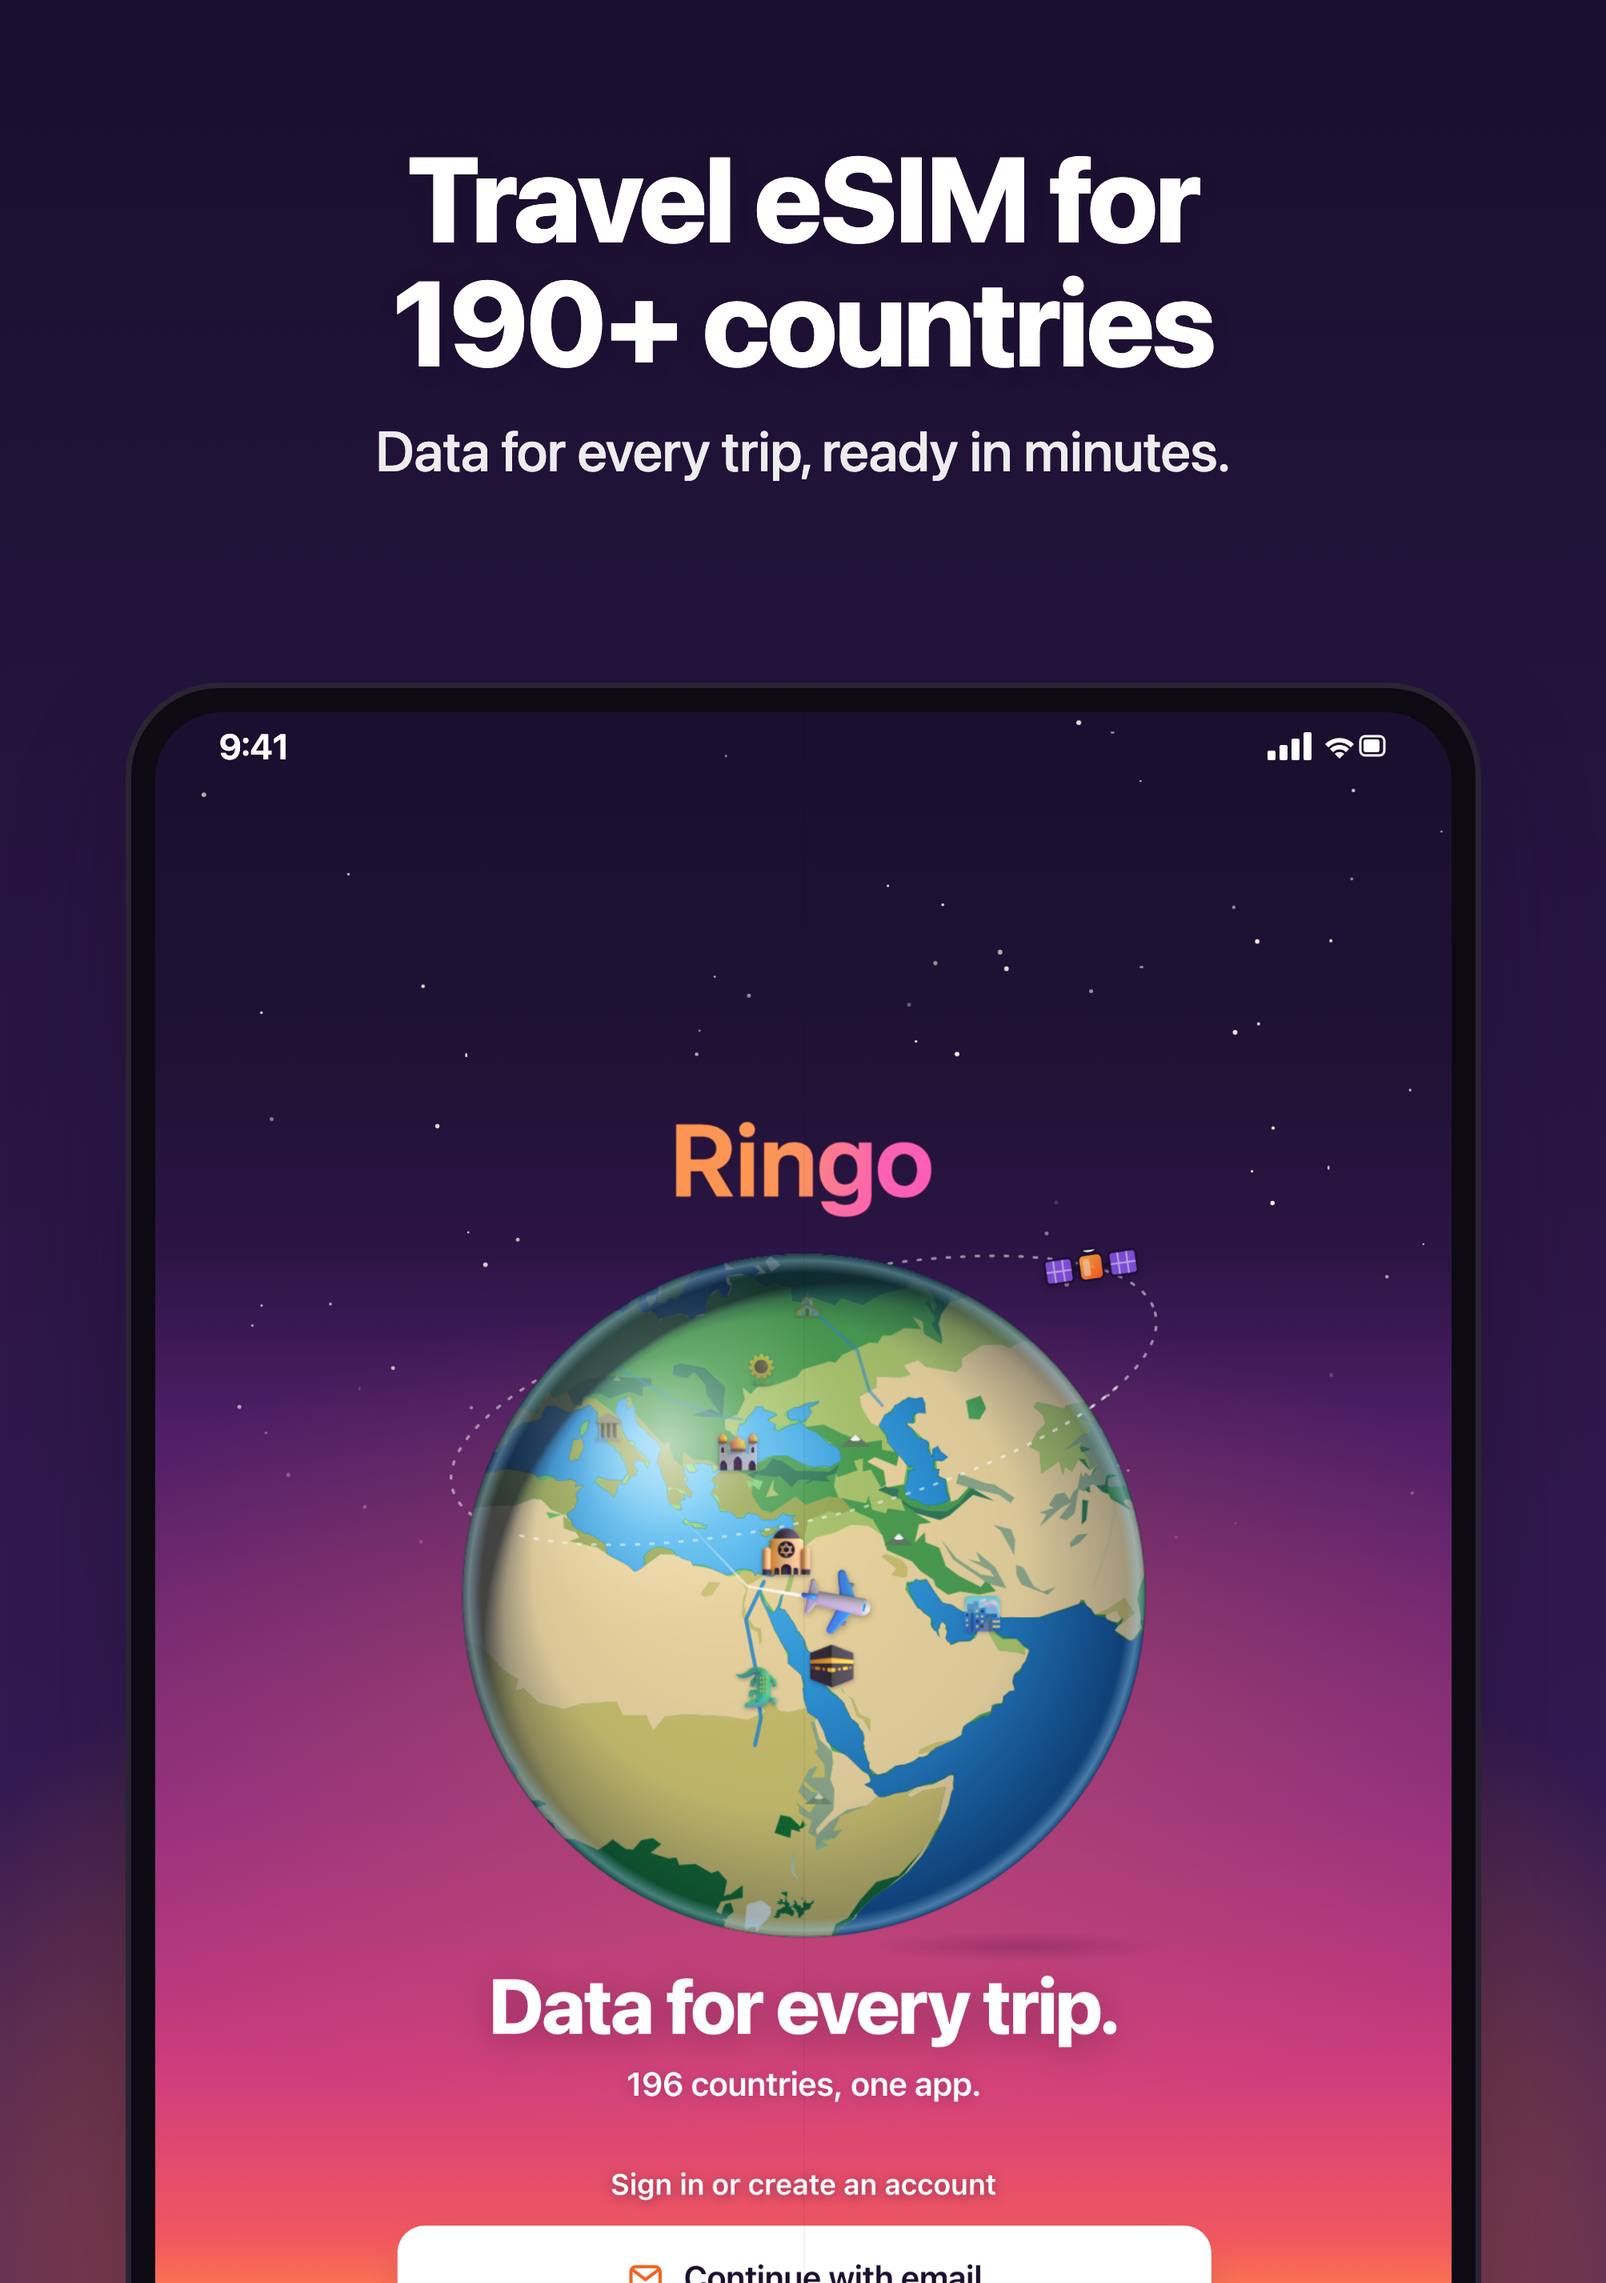
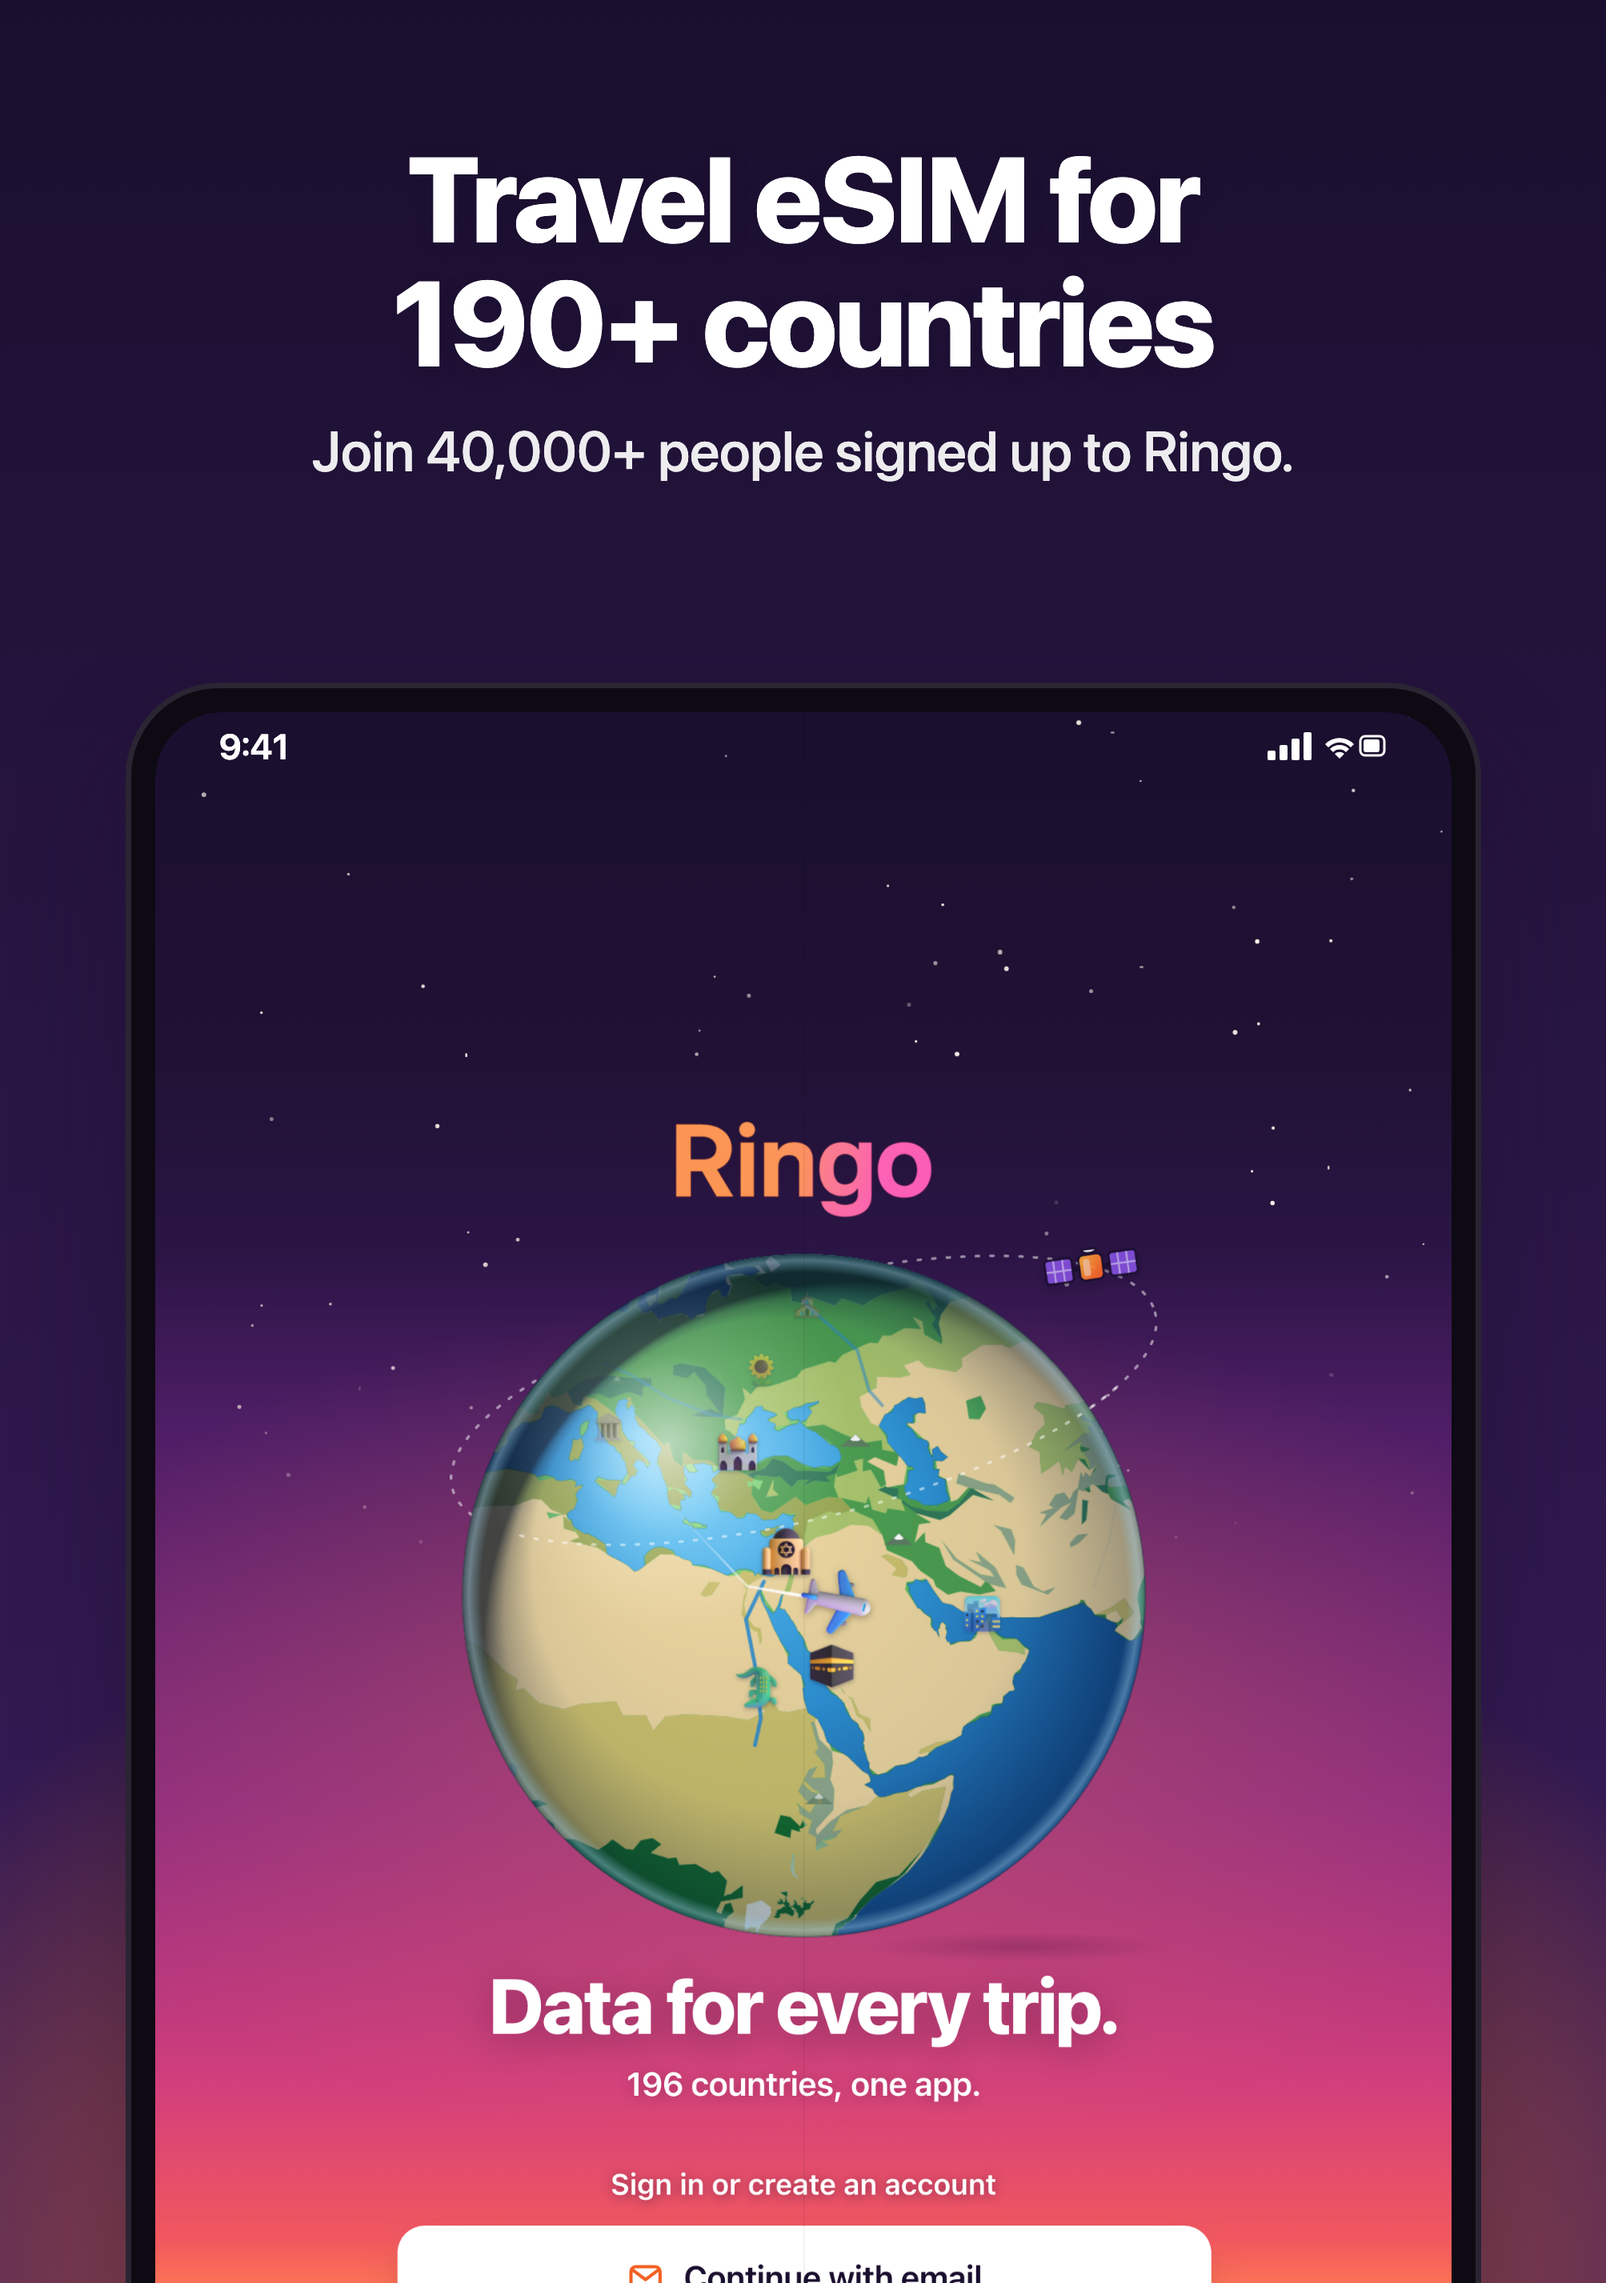
App Store first slide (6.9" and iPhone Duo): Join 40,000+ people signed up to Ringo

Changed region(s): [[0.1854, 0.1872, 0.8032, 0.2184]]

diff --git a/appstore/screenshots-1.03-marketing/src/build.py b/appstore/screenshots-1.03-marketing/src/build.py
@@ -21,7 +21,7 @@ SUN = 'linear-gradient(160deg, #F93C1F 0%, #FF7733 52%, #FFB83D 100%)'
 CREAM = (255, 250, 247)
 # (out, source, headline, line, background, status bar for web shots, cream fill above this y)
 SLIDES = [
-  ('01-travel-esim.png', SIM / '01-welcome.png', 'Travel eSIM for|190+ countries', 'Data for every trip, ready in minutes.', PLUM, None, 0),
+  ('01-travel-esim.png', SIM / '01-welcome.png', 'Travel eSIM for|190+ countries', 'Join 40,000+ people signed up to Ringo.', PLUM, None, 0),
   ('02-cheap-data.png', SIM / '02-store.png', 'Cheap data eSIM|for every trip', 'Search any country or region.', SUN, None, 0),
   ('03-unlimited-global.png', SIM / '03-global.png', 'Unlimited data|around the world', 'One global eSIM, one monthly price.', PLUM, None, 0),
   ('04-europe.png', WEB / 'europe.png', 'One eSIM for|all of Europe', '33 countries, hotspot included.', SUN, 'light', 0),

diff --git a/appstore/screenshots-1.03-duo/src/build.py b/appstore/screenshots-1.03-duo/src/build.py
@@ -14,7 +14,7 @@ PLUM = 'radial-gradient(120% 60% at 50% 100%, #FF7733 0%, rgba(255,119,51,0) 55%
 SUN = 'linear-gradient(160deg, #F93C1F 0%, #FF7733 52%, #FFB83D 100%)'
 W, H = 2007, 2853
 SLIDES = [
-  ('01-travel-esim.png', 'welcome.png', 'Travel eSIM for|190+ countries', 'Data for every trip, ready in minutes.', PLUM, 'light'),
+  ('01-travel-esim.png', 'welcome.png', 'Travel eSIM for|190+ countries', 'Join 40,000+ people signed up to Ringo.', PLUM, 'light'),
   ('02-cheap-data.png', 'store.png', 'Cheap data eSIM|for every trip', 'Search any country, city or region.', SUN, 'dark'),
   ('03-unlimited-global.png', 'global.png', 'Unlimited data|around the world', 'One global eSIM, one monthly price.', PLUM, 'dark'),
   ('04-europe.png', 'europe.png', 'One eSIM for|all of Europe', '33 countries, hotspot included.', SUN, 'dark'),
